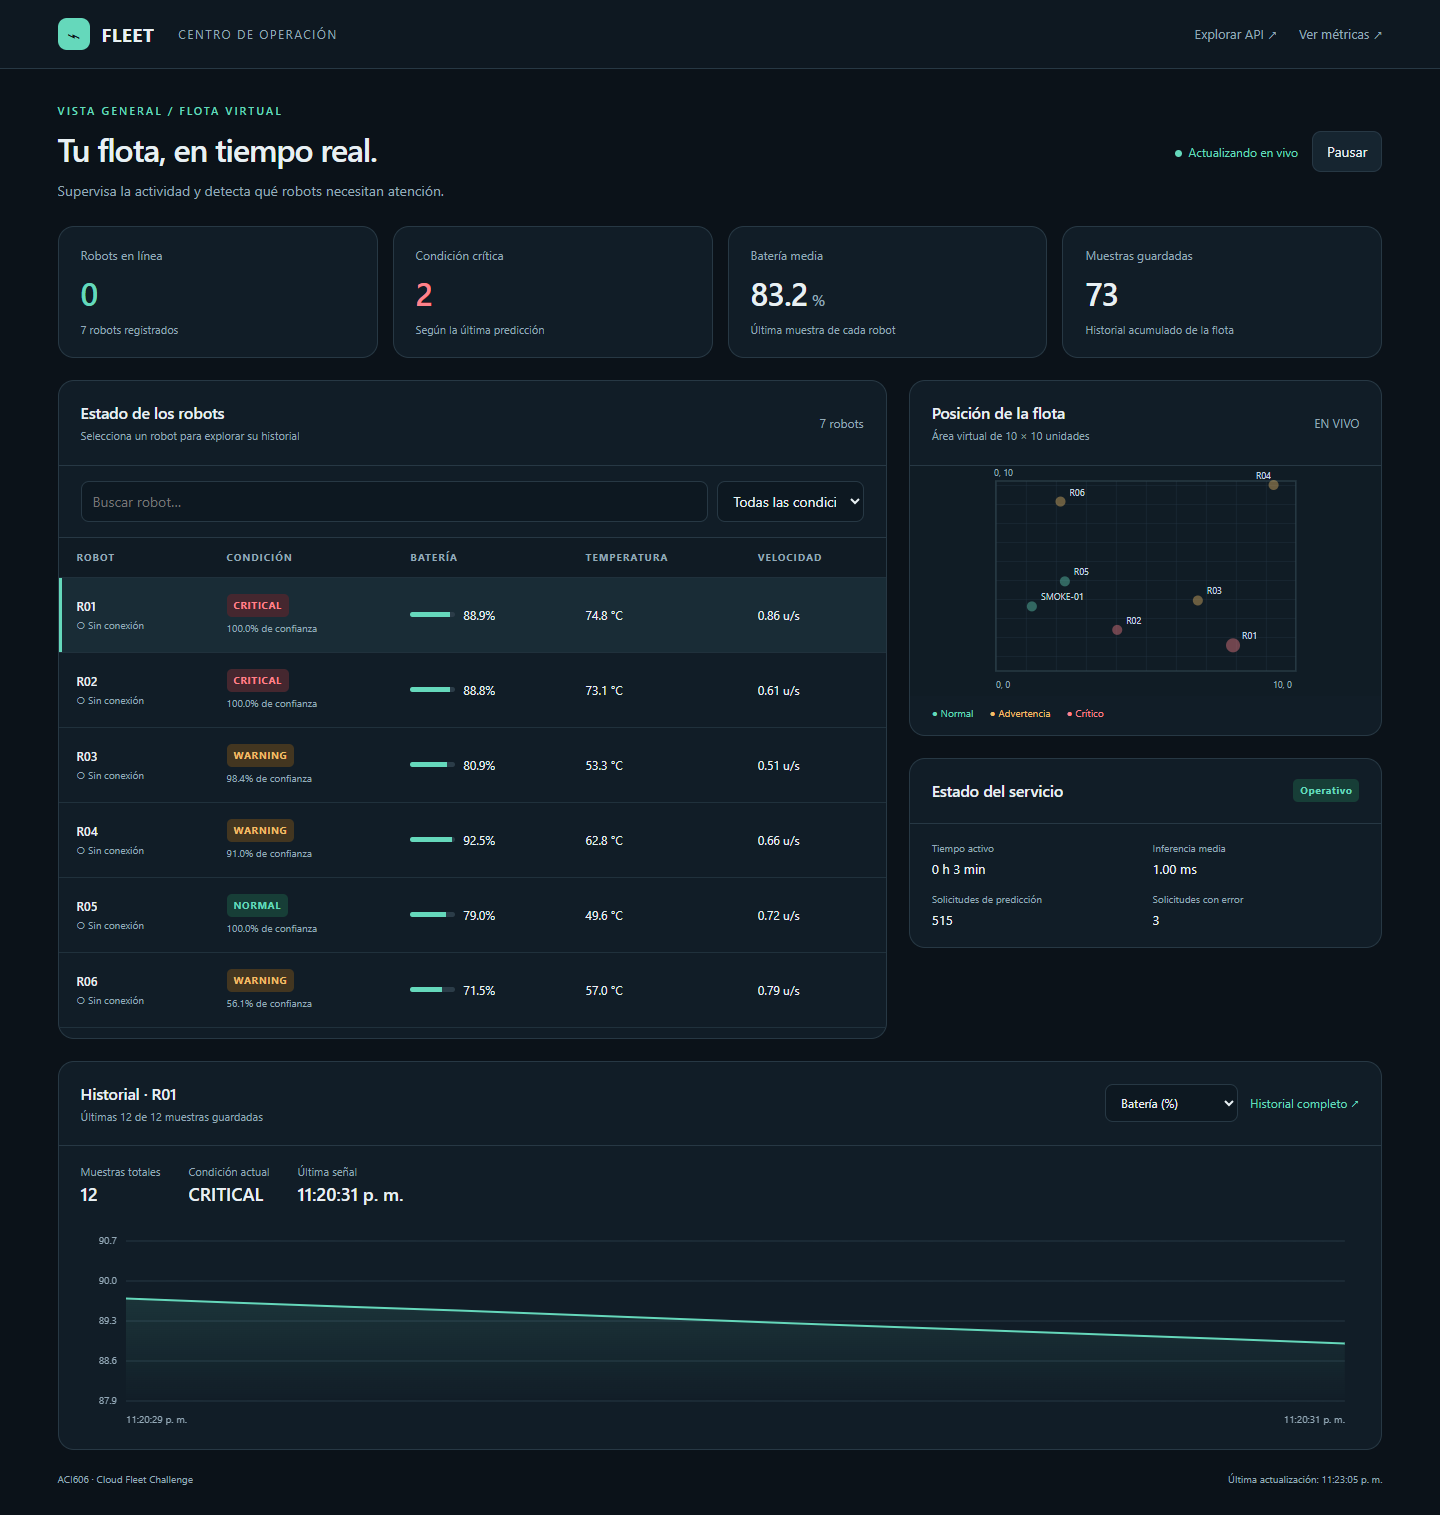
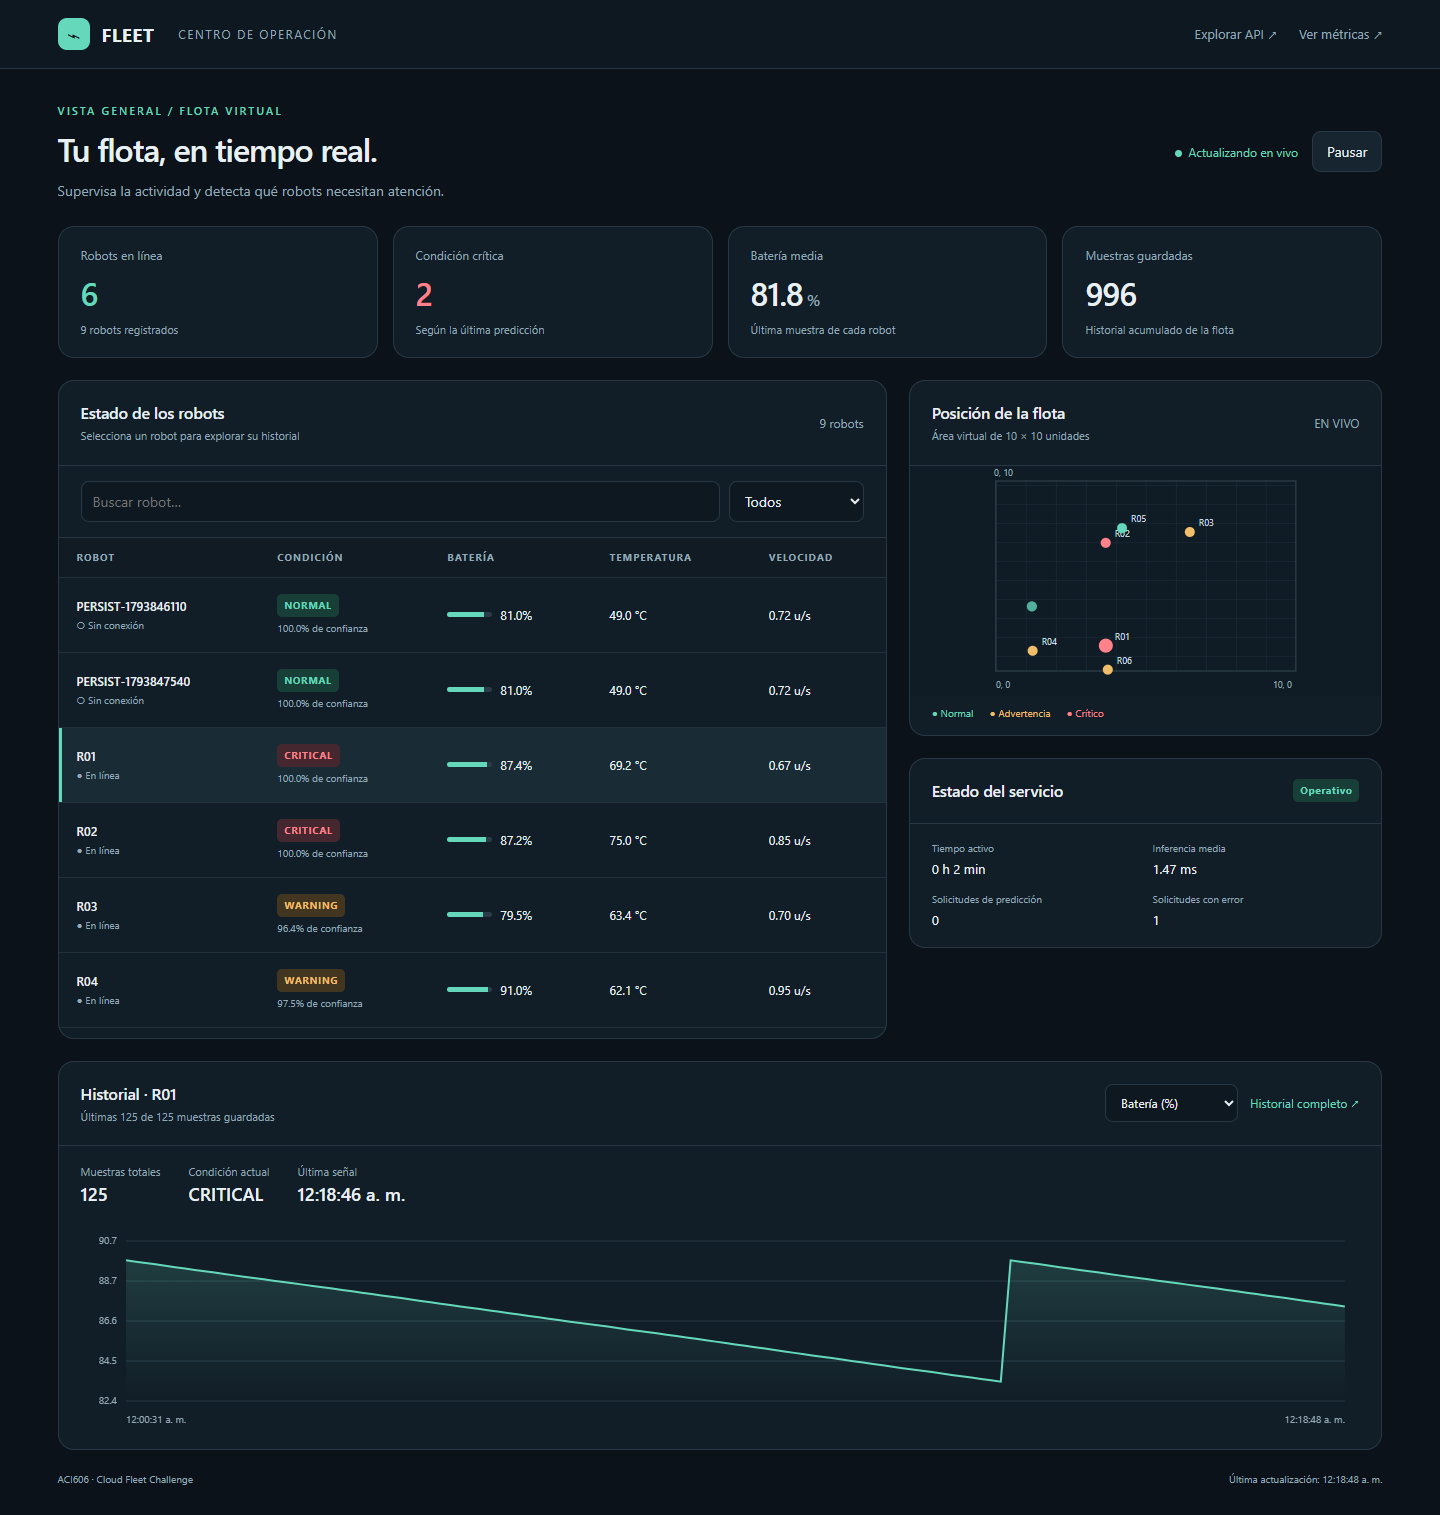
docs: finalize verified cloud evidence and delivery packaging [skip render]

diff --git a/scripts/package_delivery.py b/scripts/package_delivery.py
@@ -1,0 +1,97 @@
+"""Package source, measured evidence, dataset and real Git history; exclude secrets."""
+from __future__ import annotations
+import hashlib
+import json
+from pathlib import Path
+import shutil
+import subprocess
+import zipfile
+
+ROOT=Path(__file__).resolve().parents[1]
+DELIVERY=ROOT.parent/"Entrega_Ejercicio4"
+ARCHIVE=ROOT.parent/"Entrega_Ejercicio4.zip"
+
+
+def checked_destination(relative):
+    destination=(DELIVERY/relative).resolve()
+    if not destination.is_relative_to(DELIVERY.resolve()):
+        raise ValueError("Destino fuera de la entrega")
+    return destination
+
+
+if __name__ == "__main__":
+    deployment=json.loads((ROOT/"reports/deployment_status.json").read_text(encoding="utf-8"))
+    if deployment.get("status")!="verified":
+        raise SystemExit("Completar las verificaciones públicas antes de empaquetar")
+    DELIVERY.mkdir(exist_ok=True)
+    files=subprocess.check_output(["git","ls-files"],cwd=ROOT,text=True).splitlines()
+    packaged=[]
+    for name in files:
+        if name==".env" or (name.startswith(".env.") and name!=".env.example"):
+            raise ValueError("Archivo de credenciales en Git")
+        source=(ROOT/name).resolve()
+        if not source.is_relative_to(ROOT):
+            raise ValueError("Origen fuera del proyecto")
+        relative=Path("codigo")/name
+        destination=checked_destination(relative)
+        destination.parent.mkdir(parents=True,exist_ok=True)
+        shutil.copy2(source,destination)
+        packaged.append(relative)
+    dataset=checked_destination(Path("codigo/data/training.csv"))
+    dataset.parent.mkdir(parents=True,exist_ok=True)
+    shutil.copy2(ROOT/"data/training.csv",dataset)
+    packaged.append(Path("codigo/data/training.csv"))
+    pdf=checked_destination(Path("Informe_tecnico_Ejercicio4.pdf"))
+    shutil.copy2(ROOT/"output/pdf/Informe_tecnico_Ejercicio4.pdf",pdf)
+    packaged.append(pdf.relative_to(DELIVERY))
+    bundle=checked_destination(Path("repositorio.bundle"))
+    subprocess.run(["git","bundle","create",str(bundle),"main","feature/cloud-platform"],cwd=ROOT,check=True)
+    subprocess.run(["git","bundle","verify",str(bundle)],cwd=ROOT,check=True,capture_output=True)
+    packaged.append(bundle.relative_to(DELIVERY))
+    evaluation=json.loads((ROOT/"reports/remote_evaluation.json").read_text(encoding="utf-8"))
+    guide=f"""# Entrega del Ejercicio 4 - Cloud Fleet Challenge
+
+Servicio: {deployment['public_url']}
+Panel: {deployment['public_url']}/dashboard
+API interactiva: {deployment['public_url']}/docs
+Repositorio: {deployment['repository_url']}
+
+## Contenido
+
+- Informe_tecnico_Ejercicio4.pdf: arquitectura, EDA, comparación de modelos y evidencia local/pública.
+- codigo/: implementación completa, modelo entrenado, datos y documentación.
+- codigo/docs/DEFENSA.md: guion y respuestas para la defensa.
+- codigo/VER_DEMO_NUBE.cmd: abre el panel público y conecta seis robots, una vez preparado el entorno.
+- repositorio.bundle: historial Git real, rama de funcionalidad y merge a main. No basta con subir archivos sueltos para conservar la trazabilidad.
+
+## Resultados comprobados
+
+41 pruebas de servicio aprobadas, también verificadas en GitHub sobre Linux.
+Evaluación pública: {evaluation['successful']}/{evaluation['requests']} respuestas válidas, {evaluation['errors']} solicitudes fallidas, F1 macro {evaluation['macro_f1']:.4f}, p95 {evaluation['client_latency_p95_ms']:.2f} ms desde el cliente.
+125 muestras intactas después de reiniciar Render, comprobadas por hash e identificador de proceso.
+Acceso desde otro dispositivo confirmado por el estudiante.
+
+## Antes de defender
+
+Abrir /health y esperar el arranque del servicio gratuito. Iniciar el simulador hacia la URL pública con el lanzador o el comando indicado en el README. La API y la base no dependen de mantener este computador encendido; el simulador es solo el cliente que genera datos.
+
+El historial y las predicciones están en PostgreSQL gestionado en Neon. Las credenciales no están en este paquete. Para ejecutar o recrear el servicio, seguir codigo/README.md y codigo/docs/DEPLOYMENT.md.
+"""
+    intro=checked_destination(Path("LEEME_ENTREGA.md"))
+    intro.write_text(guide,encoding="utf-8")
+    packaged.append(intro.relative_to(DELIVERY))
+    manifest={str(relative).replace("\\","/"):hashlib.sha256((DELIVERY/relative).read_bytes()).hexdigest() for relative in packaged}
+    manifest_path=checked_destination(Path("SHA256.json"))
+    manifest_path.write_text(json.dumps(manifest,ensure_ascii=False,indent=2),encoding="utf-8")
+    packaged.append(manifest_path.relative_to(DELIVERY))
+    with zipfile.ZipFile(ARCHIVE,"w",compression=zipfile.ZIP_DEFLATED,compresslevel=8) as target:
+        for relative in sorted(packaged):
+            target.write(DELIVERY/relative,Path("Entrega_Ejercicio4")/relative)
+    with zipfile.ZipFile(ARCHIVE) as archive:
+        if archive.testzip() is not None:
+            raise ValueError("Archivo ZIP dañado")
+        names=archive.namelist()
+        assert not any(name.endswith((".env", ".env.neon")) for name in names)
+        assert any(name.endswith("models/model.joblib") for name in names)
+        assert any(name.endswith("repositorio.bundle") for name in names)
+    print(json.dumps({"archive":str(ARCHIVE),"bytes":ARCHIVE.stat().st_size,"files":len(packaged),"pdf":str(pdf)},ensure_ascii=False,indent=2))

diff --git a/README.md b/README.md
@@ -7,7 +7,7 @@ Servicio: **[https://aci606-cloud-fleet-sebit44s.onrender.com](https://aci606-cl
 
 Repositorio: [https://github.com/goudetsebastian-cyber/aci606-cloud-fleet-challenge](https://github.com/goudetsebastian-cyber/aci606-cloud-fleet-challenge)
 
-Verificación pública: pendiente de completar pruebas; revisar reports/deployment_status.json.
+Verificación pública: completa.
 <!-- deployment:end -->
 
 ![Panel de operación con datos sintéticos](reports/dashboard_desktop.png)
